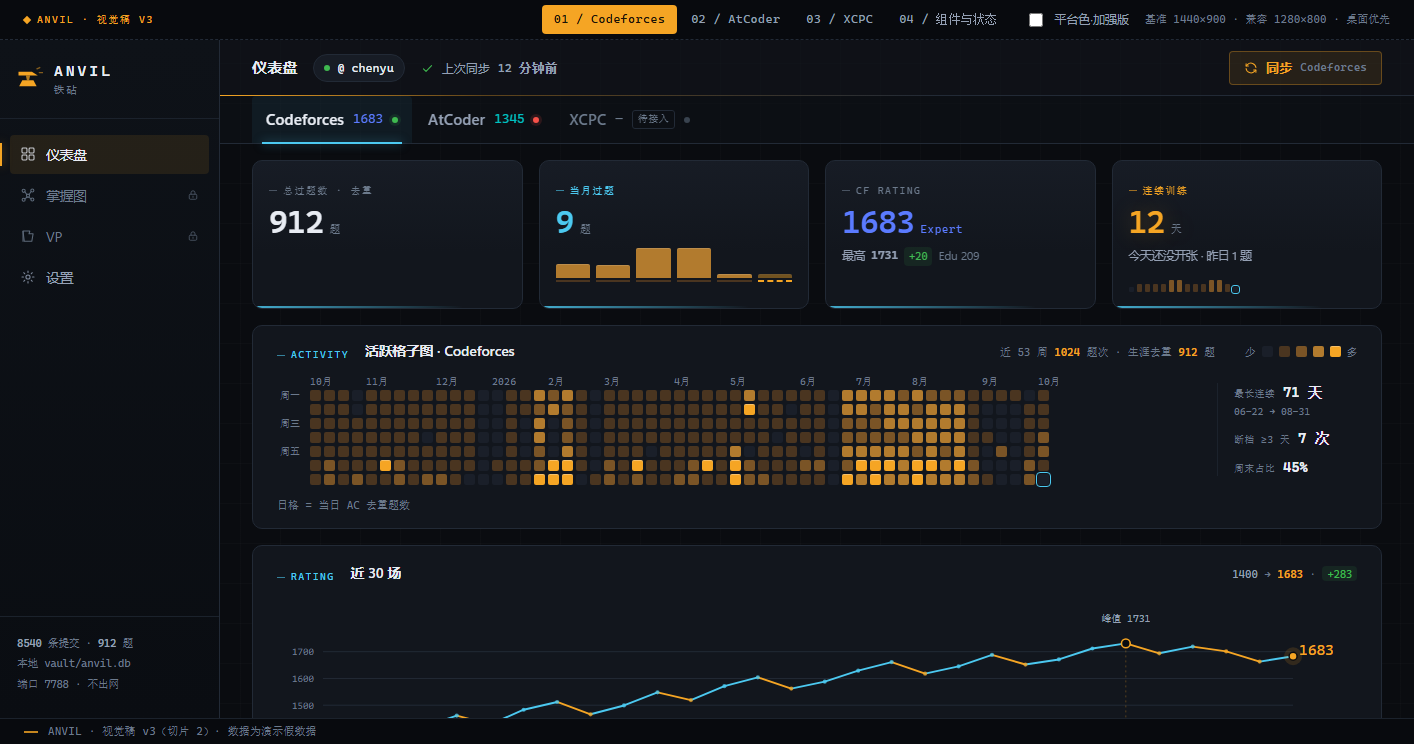
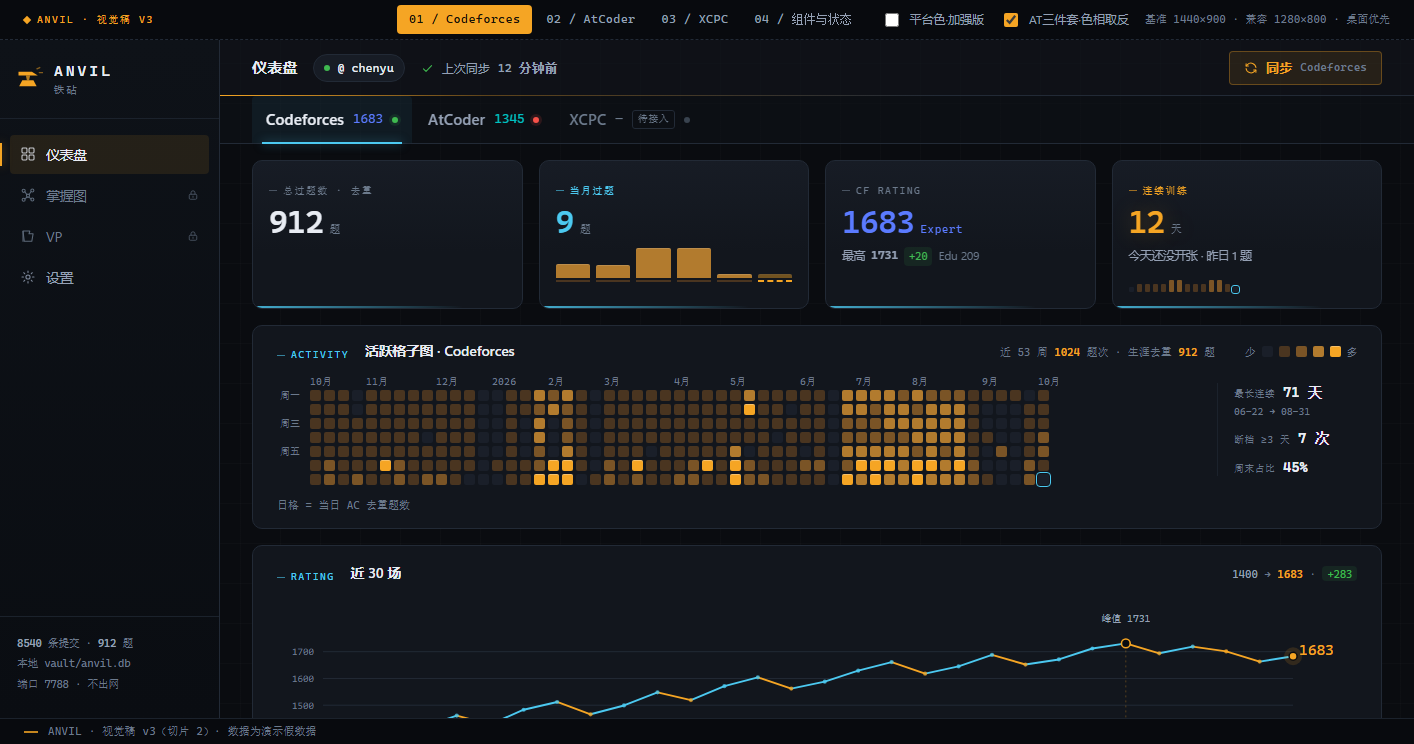
实验：AT 屏三件套色相取反（琥珀↔青），CF 屏不动
- 作用点：当月柱 / 连续刻度 / 活跃格子三个组件；规则是子树内琥珀与青整条对调，不新增颜色、不改数值
- 做法：三组件加 hue-target，body.hue-on 下重定义 --accent / --accent-2 / --pf / --heat-0..4（青系阶梯，明度跨度与原琥珀阶梯一一对应，"深浅=多少"的读法不变），另补三处硬编码 rgba 的光晕
- 顶栏加「AT三件套·色相取反」开关（默认开），#s2 开 / #s2,nohue 关；屏 4 新增 Hue inversion 一节写清规则、逐位对照表与四条代价
- 实测作用域干净：AT 逐项换色、CF 逐项原值、AT 顶栏按钮（三件套之外）不受影响；关开关即回原状
- 已知不一致：tooltip 挂在 body 上不随子树换色，仍是琥珀 —— 要一起换需给 tooltip 传源色上下文
- 09 §7 口径暂不改（实验态，等取舍）；02 记第 18 轮

Changed region(s): [[0.2801, 0.0, 0.8091, 0.0618]]

diff --git a/design/mock-02-three-ends.html b/design/mock-02-three-ends.html
@@ -609,6 +609,25 @@ body.pf-strong .dash .cmp--soft .stat,body.pf-strong .dash .cmp--soft .card{
 .inv{font-family:var(--font-num);font-size:11px;color:var(--text-dim);line-height:1.8}
 .inv b{color:var(--ok)} .inv .no{color:var(--bad)}
 
+/* ---------- 15. 色相取反实验（只作用在 AT 屏的三件套：当月柱 / 连续刻度 / 活跃格子）----------
+   规则很机械：组件子树内 琥珀 ↔ 青 整条对调 —— 热力色阶换成青系阶梯，
+   原本青的点缀（数据蓝数字、today 描边、卡头平台色 accent）换成琥珀。CF 屏完全不碰。 */
+:root{--hue-a:#F5A524; --hue-c:#00C0C0}
+body.hue-on .hue-target{
+  --accent:var(--hue-c);          /* 原琥珀 → 青 */
+  --accent-2:var(--hue-a);        /* 原青 / 数据蓝 → 琥珀 */
+  --pf:var(--hue-a); --pf-rgb:245,165,36;
+  --heat-0:#0C171D;               /* 冷铁改冷青，保持"没打 = 暗"的读法 */
+  --heat-1:#123C40;
+  --heat-2:#0E6A6E;
+  --heat-3:#0E9EA4;
+  --heat-4:#00C0C0;               /* 火头 → 青头 */
+}
+body.hue-on .hue-target .stat__num--hot{text-shadow:0 0 22px rgba(0,192,192,.28)}
+body.hue-on .hue-target .ticks i[data-l="4"]{box-shadow:0 0 8px rgba(0,192,192,.5)}
+body.hue-on .hue-target .mbar i{box-shadow:inset 0 1px 0 rgba(255,255,255,.16)}
+body.hue-on .hue-target .acell[data-l="4"]{box-shadow:inset 0 1px 0 rgba(255,255,255,.34)}
+
 .rise{animation:rise 200ms var(--ease) both}
 @keyframes rise{from{opacity:0;transform:translateY(6px)}to{opacity:1;transform:none}}
 
@@ -622,7 +641,7 @@ body.rm-on *,body.rm-on *::before,body.rm-on *::after{
 }
 </style>
 </head>
-<body>
+<body class="hue-on">
 
 <!-- ===== 内联图标：几何线条，零外部依赖 ===== -->
 <svg width="0" height="0" style="position:absolute" aria-hidden="true" focusable="false">
@@ -678,6 +697,7 @@ body.rm-on *,body.rm-on *::before,body.rm-on *::after{
     <button class="mocktab" role="tab" id="t4" aria-controls="s4" aria-selected="false" data-screen="s4" tabindex="-1">04 / 组件与状态</button>
   </nav>
   <label class="switch" title="整份稿子切到加强版：卡片再加一层极淡平台色晕"><input type="checkbox" id="pfToggle"> 平台色·加强版</label>
+  <label class="switch" title="AT 屏的当月柱 / 连续刻度 / 活跃格子三件套：琥珀与青整条对调（实验态，CF 屏不碰）"><input type="checkbox" id="hueToggle" checked> AT三件套·色相取反</label>
   <span class="mockbar__spec">基准 1440×900 · 兼容 1280×800 · 桌面优先</span>
 </header>
 
@@ -846,7 +866,7 @@ body.rm-on *,body.rm-on *::before,body.rm-on *::after{
           <div class="stat__num"><span class="cu" data-bind="stats.totalSolved" data-to="261">261</span><span class="stat__unit">题</span></div>
           <div class="stat__sub2">首次 AC 计一道 · 来源 kenkoooo 提交明细</div>
         </div>
-        <div class="stat">
+        <div class="stat hue-target">
           <div class="label label--blue stat__label">当月过题</div>
           <div class="stat__num stat__num--blue"><span class="cu" data-bind="stats.months.-1.solved" data-to="6">6</span><span class="stat__unit">题</span></div>
           <div class="mbars" id="mbars-at" role="img" aria-label="近 6 个月过题柱状图"></div>
@@ -858,7 +878,7 @@ body.rm-on *,body.rm-on *::before,body.rm-on *::after{
           <div class="stat__sub">最高 <b class="num" style="color:var(--text-dim)" data-bind="rating.max">1362</b><span class="delta" data-tone="rating.lastDeltaTone" data-bind="rating.lastDeltaText">—</span><span class="mute" data-bind="rating.lastContestShort" title="上一场">—</span></div>
           <div class="stat__sub2"><span data-bind="stats.entryCount">参赛 18 场</span> · <span data-bind="stats.nonRatedCount">非 rated 2 场</span></div>
         </div>
-        <div class="stat">
+        <div class="stat hue-target">
           <div class="label label--accent stat__label">连续训练</div>
           <div class="stat__num stat__num--hot"><span class="cu" data-bind="stats.streak.days" data-to="4">4</span><span class="stat__unit">天</span></div>
           <div class="stat__sub" data-bind="stats.streak.sub">—</div>
@@ -867,7 +887,7 @@ body.rm-on *,body.rm-on *::before,body.rm-on *::after{
       </div>
 
       <!-- b. 活跃格子图（同组件，输入换成 AT 提交） -->
-      <div class="card card--pad0 rise">
+      <div class="card card--pad0 rise hue-target">
         <div class="card__head">
           <span class="label label--pf">Activity</span>
           <h3 class="card__title">活跃格子图 · AtCoder</h3>
@@ -1258,6 +1278,49 @@ body.rm-on *,body.rm-on *::before,body.rm-on *::after{
           <p class="hint" style="margin-top:14px">
             两块样本是同一份数据（屏 2 的 AT 尾部 6 周），只差分档函数。方案 A 保住"热力 = 琥珀 = 锻打"这条全局隐喻，方案 B 让 AT 侧看得出深浅。
             <b>本稿按 <code>docs/09</code> §5 走 A</b>，B 只作对照。
+          </p>
+        </section>
+
+        <!-- ---------- 色相取反实验 ---------- -->
+        <section>
+          <h3>Hue inversion <span>色相取反实验 · 只作用在 AT 屏的三件套（当前 = 开着，顶栏可关）</span></h3>
+          <p class="hint" style="margin-bottom:var(--sp-2)">
+            规则很机械：在这三个组件的子树里把<b>琥珀与青整条对调</b> —— 不新增颜色、不改数值、不碰 CF 屏。
+            作用点：<code>当月过题</code> 卡、<code>连续训练</code> 卡、<code>活跃格子图</code> 卡。
+          </p>
+          <div class="tk-grid2">
+            <div>
+              <h4>原本（CF 与 AT 共用一把尺）</h4>
+              <div class="legend" style="margin-bottom:10px">少
+                <i style="background:#1A1F29"></i><i style="background:#4A3520"></i><i style="background:#7A5426"></i><i style="background:#B27B2E"></i><i style="background:#F5A524"></i>多
+              </div>
+              <h4>取反后（仅 AT 三件套）</h4>
+              <div class="legend" style="margin-bottom:10px">少
+                <i style="background:#0C171D"></i><i style="background:#123C40"></i><i style="background:#0E6A6E"></i><i style="background:#0E9EA4"></i><i style="background:#00C0C0"></i>多
+              </div>
+              <p class="hint">阶梯的明度跨度一一对应，只换色相 —— 所以"深浅 = 多少"这条读法不变，变的只是"热"这个字属于哪家。</p>
+            </div>
+            <div>
+              <table class="sl">
+                <thead><tr><th style="width:150px">位置</th><th style="width:120px">原本</th><th>取反后</th></tr></thead>
+                <tbody>
+                  <tr><td>格子 / 刻度 / 柱条</td><td>琥珀五档</td><td>青五档（冷青 → #00C0C0）</td></tr>
+                  <tr><td>连续训练主数字</td><td>琥珀 + 琥珀光</td><td>青 + 青光</td></tr>
+                  <tr><td>当月主数字与 label</td><td>数据蓝 #4CC9F0</td><td>琥珀 #F5A524</td></tr>
+                  <tr><td>当月"进行中"末根柱</td><td>琥珀半透 + 虚线</td><td>青半透 + 虚线</td></tr>
+                  <tr><td>今日描边（格子 / 刻度）</td><td>数据蓝</td><td>琥珀</td></tr>
+                  <tr><td>卡头 ACTIVITY accent</td><td>平台青 #00C0C0</td><td>琥珀</td></tr>
+                  <tr><td>读数 236 / 261</td><td>琥珀</td><td>青</td></tr>
+                </tbody>
+              </table>
+            </div>
+          </div>
+          <p class="hint" style="margin-top:14px">
+            <b>四条代价，审的时候一起看</b>：① 热力色阶"冷铁 → 炉火"是切片 1 的根隐喻（<code>docs/09</code> §7 明写"热力色阶不动"），AT 侧换青之后，两源的"热"不再是同一个字；
+            ② 卡头 accent 由平台青变琥珀，等于把 AT 屏的归属信号拆掉一处，与"平台识别色作用于卡头 accent"撞；
+            ③ 琥珀是"你在这里花过时间"的主角色，换掉之后一屏里只剩顶栏余热线和主按钮还带炉火味；
+            ④ tooltip 是挂在 body 上的全局浮层，不在这三个组件子树内，<b>仍是琥珀</b> —— 与卡内青柱有个小不一致，要一起换得给 tooltip 传源色上下文。
+            顶栏「AT三件套·色相取反」可即时开关对照；<code>#s2</code> 与 <code>#s2,nohue</code> 分别是开与关。
           </p>
         </section>
 
@@ -2184,6 +2247,10 @@ bindPair(pfA,pfB,function(on){
   document.body.classList.toggle("pf-strong",on);
   if(pfA) pfA.checked=on; if(pfB) pfB.checked=on;
 });
+/* AT 三件套色相取反：实验态，默认开着，顶栏可关（#s2,nohue 看对照） */
+var hue=$("#hueToggle");
+function setHue(on){ document.body.classList.toggle("hue-on",on); if(hue) hue.checked=on }
+if(hue) hue.addEventListener("change",function(){ setHue(hue.checked) });
 var rm=$("#rmToggle");
 function setRM(on){ document.body.classList.toggle("rm-on",on); if(rm) rm.checked=on }
 if(rm) rm.addEventListener("change",function(){ setRM(rm.checked) });
@@ -2321,6 +2388,8 @@ window.addEventListener("resize",function(){
   tokens.forEach(function(t){
     if(t==="strong"){ document.body.classList.add("pf-strong"); if(pfA) pfA.checked=true; if(pfB) pfB.checked=true }
     else if(t==="rm") setRM(true);
+    else if(t==="hue") setHue(true);
+    else if(t==="nohue") setHue(false);
   });
   tokens.forEach(function(t){ if(/^s[1-4]$/.test(t)) go(t) });
 })();

diff --git a/docs/02-设计讨论记录.md b/docs/02-设计讨论记录.md
@@ -5,6 +5,16 @@
 
 ---
 
+## 2026-10-04 · 第 18 轮：AT 三件套色相取反（实验态，未定稿）
+
+- 用户点了第 17 轮定稿后主动试一轮：**AT 屏的 当月柱 / 连续刻度 / 活跃格子 三件套整条色相取反**，CF 屏不动。规则很机械 —— 组件子树内 琥珀 ↔ 青 对调，不新增颜色、不改数值。
+- 实现走"局部换 token"而不是逐条改样式：给三个组件加 `hue-target`，`body.hue-on .hue-target` 里重定义 `--accent` / `--accent-2` / `--pf` / `--heat-0..4`（青系阶梯，明度跨度与原琥珀阶梯一一对应，所以"深浅 = 多少"的读法不变），另补三处硬编码 rgba 的光晕（主数字 text-shadow、刻度 heat-4、柱条内高光）。
+- 实测作用域干净（CDP 逐元素读 computed color）：AT 连续主数字 `rgb(0,192,192)`、当月主数字 `rgb(245,165,36)`、柱条 `#0E9EA4`、今日描边转琥珀、卡头 accent 转琥珀；**CF 屏逐项保持原值**，AT 顶栏同步按钮（三件套之外）也仍是琥珀。关掉开关立刻回原状。
+- 四条代价已在视觉稿屏 4 的 Hue inversion 一节写清：① 破坏"冷铁→炉火"这条全局热力隐喻（`09` §7 明写热力色阶不动）；② 卡头 accent 由平台青转琥珀，等于拆掉 AT 屏一处归属信号，与 §7 的平台色规则撞；③ 琥珀是"你在这里花过时间"的主角色，换掉后一屏只剩顶栏余热线和主按钮带炉火味；④ tooltip 挂在 body 上、不在这三个组件子树内，**仍是琥珀**，与卡内青柱不一致 —— 要一起换得给 tooltip 传源色上下文。
+- 状态：**实验态，默认开着**（顶栏「AT三件套·色相取反」可关；`#s2` 开、`#s2,nohue` 关）。`09` §7 暂未改口径，等用户判取舍。
+
+---
+
 ## 2026-10-04 · 第 17 轮：动效定档 + 段位色提亮表定稿（待审核）
 
 - 用户在屏 4 调参台上选定 **极缓档并微调**（截图回传）：飞出 `DUR 360 / STEP 51 / DSTEP 9` 缓动"对称 · 加速度明显"，飞入 `DUR 520 / STEP 40 / DSTEP 14` 缓动"柔和 · 两头收"，空档 80ms、底部升起 72px、起终点缩放 4%。6 卡预览 = **1530ms**，AT 屏 7 卡 ≈ **1644ms**。这组数已设为调参台默认与"极缓"预设本身（预设按钮按下去就还原到定稿态），并钉回 `09` §7。
